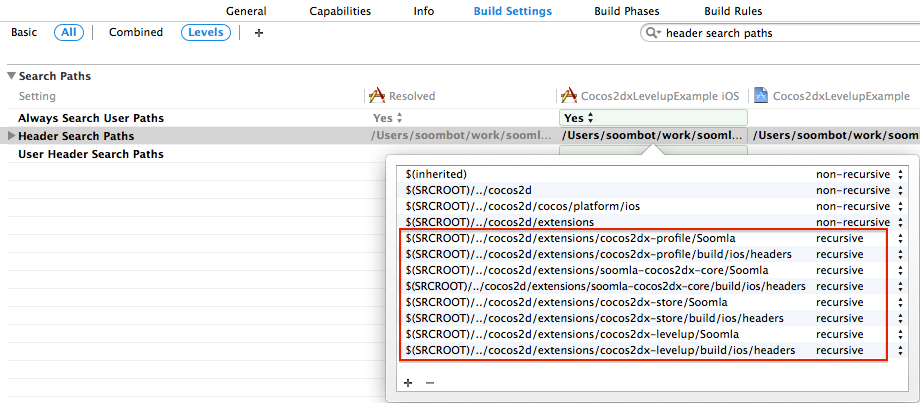
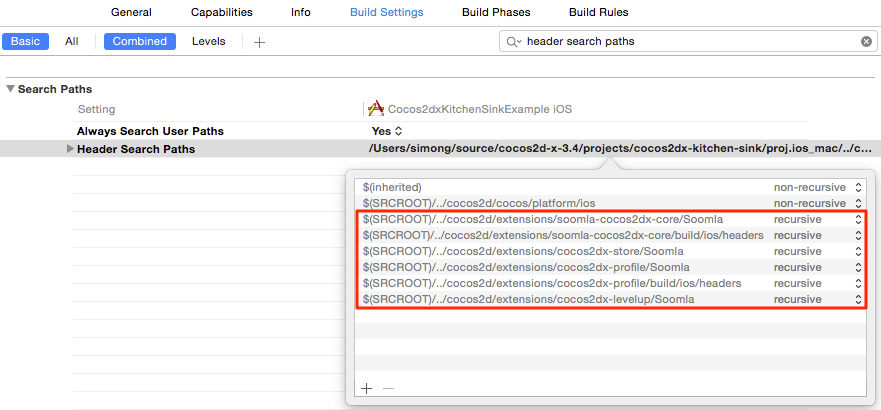
updating levelup getting started

Changed region(s): [[0.0, 0.1787, 1.0, 1.0], [0.0, 0.0, 1.0, 0.1489]]

diff --git a/src/documents/cocos2dx/levelup/Levelup_GettingStarted.html.md b/src/documents/cocos2dx/levelup/Levelup_GettingStarted.html.md
@@ -34,54 +34,45 @@ platform: 'cocos2dx'
     $ git clone git@github.com:soomla/cocos2dx-levelup.git extensions/cocos2dx-levelup
     ```
 
-3. We use a [fork](https://github.com/vedi/jansson) of the jansson library for JSON parsing. Clone our fork into the `external` directory at the root of your framework:
+3. We use a [fork](https://github.com/soomla/jansson) of the jansson library for JSON parsing. Clone our fork into the `external` directory at the root of your framework:
 
     ```
-    $ git clone git@github.com:vedi/jansson.git external/jansson
+    $ git clone git@github.com:soomla/jansson.git external/jansson
     ```
-
-4. Implement your `CCLevelUpEventHandler` class in order to be notified about LevelUp-related events.
-
-5. Initialize `CCServiceManager`, `CCStoreService`, `CCProfileService`, and `CCLevelUpService` with the class you just created, a `customSecret` and other params:
-
-  ```cpp
-  __Dictionary *commonParams = __Dictionary::create();
-    commonParams->setObject(__String::create("ExampleCustomSecret"), "customSecret");
-
-  __Dictionary *storeParams = __Dictionary::create();
-  storeParams->setObject(__String::create("ExamplePublicKey"), "androidPublicKey");
-
-  __Dictionary *profileParams = __Dictionary::create();
-
-    soomla::CCServiceManager::getInstance()->setCommonParams(commonParams);
-
-  soomla::CCStoreService::initShared(assets, storeParams);
-
-  soomla::CCProfileService::initShared(profileParams);
-
-  soomla::CCLevelUpService::initShared();
-
-  // initialWorld - should be created here and contain all worlds and levels of the game
-  // rewards - should contain a list of all rewards that are given through LevelUp
-  soomla::CCLevelUp::getInstance()->initialize(initialWorld, rewards);
-
-  ```
-  - *Custom Secret* is an encryption secret you provide that will be used to secure your data.
-
-  <div class="warning-box">Choose this secret wisely, you can't change it after you launch your game!
-  <br>Initialize `CCLevelUpService` ONLY ONCE when your application loads.</div>
-
-6. Make sure to include the `Cocos2dxLevelUp.h` header whenever you use any of the **cocos2dx-levelup** functions:
+4. Make sure to include the `Cocos2dxLevelUp.h` header whenever you use any of the **cocos2dx-levelup** functions:
 
     ```cpp
     #include "Cocos2dxLevelUp.h"
     ```
 
-7. Add an instance of your event handler to `CCLevelUpEventDispatcher` after `CCLevelUpService` initialization:
+5. Initialize `CCSoomla`, `CCSoomlaStore`, `CCSoomlaProfile`, and `CCSoomlaLevelUp` with their appropriate params:
 
-    ```cpp
-    soomla::CCLevelUpEventDispatcher::getInstance()->addEventHandler(handler);
-    ```
+  ```cpp
+  soomla::CCSoomla::initialize("customSecret");
+
+  YourImplementationAssets *assets = YourImplementationAssets::create();
+
+  __Dictionary *storeParams = __Dictionary::create();
+  soomla::CCSoomlaStore::initialize(assets, storeParams);
+
+  __Dictionary *profileParams = __Dictionary::create();
+  soomla::CCSoomlaProfile::initialize(profileParams);
+
+  // initialWorld - should be created here and contain all worlds and levels of the game
+	// rewards - should contain a list of all rewards that are given through LevelUp
+	soomla::CCSoomlaLevelUp::getInstance()->initialize(initialWorld, rewards);
+
+  ```
+  - *Custom Secret* is an encryption secret you provide that will be used to secure your data.
+
+  - *Store Params* see the [Store Getting Started](/cocos2dx/store/Store_GettingStarted) for more information about initializing Store
+
+  - *Profile Params* see the [Profile Getting Started](/cocos2dx/profile/Profile_GettingStarted) for more information about initializing Profile
+
+  <div class="warning-box">Choose this secret wisely, you can't change it after you launch your game!
+  <br>Initialize `CCSoomlaLevelUp` ONLY ONCE when your application loads.</div>
+
+6. You'll need to subscribe to levelup events to get notified about Level-Up related events. refer to the [Event Handling](/cocos2dx/levelup/Levelup_Events) section for more information.
 
 <div class="info-box">The next steps are different according to which platform you are using.</div>
 
@@ -89,7 +80,7 @@ platform: 'cocos2dx'
 
 In your XCode project, perform the following steps:
 
-1. Add `jansson` (**external/jansson/**) to your project (just add it as a source folder).
+1. Add `jansson` (**external/jansson/**) to your project (just add it as a source folder, make sure to check "create group").
 
 2. For each of the following XCode projects:
 
@@ -118,42 +109,17 @@ In your XCode project, perform the following steps:
  - `$(SRCROOT)/../cocos2d/extensions/soomla-cocos2dx-core/Soomla`
  - `$(SRCROOT)/../cocos2d/extensions/soomla-cocos2dx-core/build/ios/headers`
  - `$(SRCROOT)/../cocos2d/extensions/cocos2dx-store/Soomla`
- - `$(SRCROOT)/../cocos2d/extensions/cocos2dx-store/build/ios/headers`
  - `$(SRCROOT)/../cocos2d/extensions/cocos2dx-profile/Soomla`
  - `$(SRCROOT)/../cocos2d/extensions/cocos2dx-profile/build/ios/headers`
  - `$(SRCROOT)/../cocos2d/extensions/cocos2dx-levelup/Soomla`
- - `$(SRCROOT)/../cocos2d/extensions/cocos2dx-levelup/build/ios/headers`
 
  ![alt text](/img/tutorial_img/cocos2dx-levelup/headerSP.png "Header search paths")
 
-4. To register services on the native application (`AppController`):
+4. Make sure you have these 3 Frameworks linked to your XCode project: **Security**, **libsqlite3.0.dylib**, and **StoreKit**.
 
-  a. Import the following headers:
-    ```cpp
-    #import "ServiceManager.h"
-    #import "StoreService.h"
-    #import "ProfileService.h"
-    #import "LevelUpService.h"
-    ```
+5. Follow our [tutorial](/cocos2dx/store/Store_GettingStarted#apple-app-store) on how to connect the Store module to the App Store billing service.
 
-  b. Register the native `StoreService`, `ProfileService`, and `LevelUpService` by adding:
-    ```cpp
-    [[ServiceManager sharedServiceManager]
-      registerService:[StoreService sharedStoreService]];
-
-    [[ServiceManager sharedServiceManager]
-      registerService:[ProfileService sharedProfileService]];
-
-    [[ServiceManager sharedServiceManager]
-      registerService:[LevelUpService sharedLevelUpService]];
-    ```
-    at the beginning of the method `application: didFinishLaunchingWithOptions:` of `AppController`.
-
-5. Make sure you have these 3 Frameworks linked to your XCode project: **Security**, **libsqlite3.0.dylib**, and **StoreKit**.
-
-6. Follow our [tutorial](/cocos2dx/store/Store_GettingStarted#apple-app-store) on how to connect the Store module to the App Store billing service.
-
-7. See the following links in order to connect the Profile module to a social network provider:
+6. See the following links in order to connect the Profile module to a social network provider:
 
   - [Facebook for iOS](/cocos2dx/profile/Profile_GettingStarted#facebook-for-ios)
 
@@ -212,38 +178,7 @@ That's it! Now all you have to do is build your XCode project and run your game 
 
     - Cocos2dxAndroidLevelUp.jar
 
-
-3. In your game's main `Cocos2dxActivity`, call the following in the `onCreateView` method:
-
-  ``` java
-  public Cocos2dxGLSurfaceView onCreateView() {
-    // initialize services
-    final ServiceManager serviceManager = ServiceManager.getInstance();
-    serviceManager.setActivity(this);
-    serviceManager.setGlSurfaceView(glSurfaceView);
-    serviceManager.registerService(StoreService.getInstance());
-    serviceManager.registerService(ProfileService.getInstance());
-    serviceManager.registerService(LevelUpService.getInstance());
-  }
-  ```
-
-4. Override `onPause`, `onResume`:
-
-  ``` java
-    @Override
-    protected void onPause() {
-        super.onPause();
-        ServiceManager.getInstance().onPause();
-    }
-
-    @Override
-    protected void onResume() {
-        ServiceManager.getInstance().onResume();
-        super.onResume();
-    }
-  ```
-
-5. Update your `AndroidManifest.xml` to include permissions and the `SoomlaApp`:
+3. Update your `AndroidManifest.xml` to include permissions and the `SoomlaApp`:
 
     ``` xml
     <uses-permission android:name="android.permission.INTERNET"/>
@@ -258,13 +193,13 @@ That's it! Now all you have to do is build your XCode project and run your game 
     </application>
     ```
 
-6. See the following links in order to connect the Store module to a billing service:
+4. See the following links in order to connect the Store module to a billing service:
 
   - [Google Play](/cocos2dx/store/Store_GettingStarted#google-play)
 
   - [Amazon App Store](/cocos2dx/store/Store_GettingStarted#amazon)
 
-7. See the following links in order to connect the Profile module to a social network provider:
+5. See the following links in order to connect the Profile module to a social network provider:
 
   - [Facebook for Android](/cocos2dx/profile/Profile_GettingStarted#facebook-for-android)
 
@@ -314,7 +249,7 @@ That's it! Don't forget to run the **build_native.py** script so cocos2dx-levelu
 
 **NOTE:** Examples using virtual items are dependent on cocos2dx-store module, with proper `CCSoomlaStore` initialization and `CCStoreAssets` definitions. See the cocos2dx-store integration section for more details.
 
-* CCMission with CCReward (collect 5 stars to get 1 mega star)
+* `CCMission` with `CCReward` (collect 5 stars to get 1 mega star)
 
   ```cpp
   CCVirtualItemReward *virtualItemReward = CCVirtualItemReward::create(
@@ -339,16 +274,16 @@ That's it! Don't forget to run the **build_native.py** script so cocos2dx-levelu
   CCStoreInventory::sharedStoreInventory()->giveItem(starItemId->getCString(), 5, &error);
 
   // events posted:
-  // 1. onGoodBalanceChanged (Store events)
-  // 2. onMissionCompleted (LevelUp events)
-  // 3. onRewardGivenEvent (Core events)
+  // 1. EVENT_GOOD_BALANCE_CHANGED (Store events)
+  // 2. EVENT_MISSION_COMPLETED (LevelUp events)
+  // 3. EVENT_REWARD_GIVEN (Core events)
 
   // now the mission is complete, and reward given
   balanceMission->isCompleted(); // true
   virtualItemReward->isOwned(); // true
   ```
 
-* CCRecordGate with CCRangeScore
+* `CCRecordGate` with `CCRangeScore`
 
   ```cpp
   CCLevel *lvl1 = CCLevel::create(__String::create("lvl1_recordgate_rangescore"));
@@ -377,22 +312,22 @@ That's it! Don't forget to run the **build_native.py** script so cocos2dx-levelu
   world->addInnerWorld(lvl1);
   world->addInnerWorld(lvl2);
 
-  CCLevelUp::getInstance()->initialize(world);
+  CCSoomlaLevelUp::getInstance()->initialize(world);
 
   lvl1->start();
 
   // events posted:
-  // onLevelStarted (LevelUp events)
+  // EVENT_LEVEL_UP_INITIALIZED (LevelUp events)
 
   rangeScore->inc(100);
 
   lvl1->end(true);
 
   // events posted:
-  // onLevelEnded (LevelUp events)
-  // onWorldCompleted (lvl1) (LevelUp events)
-  // onGateOpened (LevelUp events)
-  // [onScoreRecordReached] - if record was broken (LevelUp events)
+  // EVENT_LEVEL_ENDED (LevelUp events)
+  // EVENT_MISSION_COMPLETED (lvl1) (LevelUp events)
+  // EVENT_GATE_OPENED (LevelUp events)
+  // [EVENT_SCORE_RECORD_REACHED] - if record was broken (LevelUp events)
 
   recordGate->isOpen(); // true
 
@@ -401,12 +336,12 @@ That's it! Don't forget to run the **build_native.py** script so cocos2dx-levelu
   lvl2->end(true);
 
   // events posted:
-  // onWorldCompleted (lvl2) (LevelUp events)
+  // EVENT_WORLD_COMPLETED (lvl2) (LevelUp events)
 
   lvl2->isCompleted(); // true
   ```
 
-* CCVirtualItemScore
+* `CCVirtualItemScore`
 
   ```cpp
   CCLevel *lvl1 = CCLevel::create(__String::create("lvl1_viscore"));
@@ -417,27 +352,27 @@ That's it! Don't forget to run the **build_native.py** script so cocos2dx-levelu
 
   world->addInnerWorld(lvl1);
 
-  CCLevelUp::getInstance()->initialize(world);
+  CCSoomlaLevelUp::getInstance()->initialize(world);
 
   lvl1->start();
   // events posted:
-  // onLevelStarted (LevelUp events)
+  // EVENT_LEVEL_UP_INITIALIZED (LevelUp events)
 
   virtualItemScore->inc(2.0);
   // events posted:
-  // onGoodBalanceChanged (Store events)
+  // EVENT_GOOD_BALANCE_CHANGED (Store events)
 
   lvl1->end(true);
   // events posted:
-  // onLevelEnded (LevelUp events)
-  // onWorldCompleted (lvl1) (LevelUp events)
-  // [onScoreRecordChanged] - if record was broken (LevelUp events)
+  // EVENT_LEVEL_ENDED (LevelUp events)
+  // EVENT_WORLD_COMPLETED (lvl1) (LevelUp events)
+  // [EVENT_SCORE_RECORD_REACHED] - if record was broken (LevelUp events)
 
   int currentBalance = CCStoreInventory::sharedStoreInventory()->getItemBalance(ITEM_ID_VI_SCORE, &error);
   // currentBalance == 2
   ```
 
-* CCChallenge (Multi-Mission)
+* `CCChallenge` (Multi-Mission)
 
   ```cpp
   __String *scoreId = __String::create("main_score");
@@ -476,22 +411,22 @@ That's it! Don't forget to run the **build_native.py** script so cocos2dx-levelu
   score->reset(true);
 
   // events:
-  // onMissionCompleted (mission1) (LevelUp events)
-  // [onScoreRecordReached] - if record is broken
+  // EVENT_WORLD_COMPLETED (mission1) (LevelUp events)
+  // [EVENT_SCORE_RECORD_REACHED] - if record is broken
 
   score->setTempScore(120.0);
   score->reset(true);
 
   // events:
-  // onMissionCompleted (mission2) (LevelUp events)
-  // onMissionCompleted (challenge) (LevelUp events)
-  // onRewardGivenEvent (badgeReward) (Core events)
+  // EVENT_MISSION_COMPLETED (mission2) (LevelUp events)
+  // EVENT_MISSION_COMPLETED (challenge) (LevelUp events)
+  // EVENT_REWARD_GIVEN (badgeReward) (Core events)
 
   challenge->isCompleted(); // true
   badgeReward->isOwned(); // true
   ```
 
-* CCGatesList
+* `CCGatesList`
 > Note that currently a `GatesList` gate is automatically opened when sub-gates fulfill the `GatesList` requirement.
 
   ```cpp
@@ -535,7 +470,7 @@ That's it! Don't forget to run the **build_native.py** script so cocos2dx-levelu
     gates
   );
 
-  CCLevelUp::getInstance()->initialize(world);
+  CCSoomlaLevelUp::getInstance()->initialize(world);
 
   score1->setTempScore(desiredRecord1->getValue());
   score1->reset(true);

diff --git a/src/documents/cocos2dx/profile/Profile_GettingStarted.html.md b/src/documents/cocos2dx/profile/Profile_GettingStarted.html.md
@@ -39,7 +39,7 @@ platform: 'cocos2dx'
   #include "Cocos2dxProfile.h"
   ```
 
-5. Initialize `CCSoomla` a `customSecret` and `CCSoomlaProfile` its params. **Custom Secret** is an encryption secret you provide that will be used to secure your data. Choose this secret wisely, you can't change it after you launch your game!
+5. Initialize `CCSoomla` with a `customSecret` and `CCSoomlaProfile` with its params. **Custom Secret** is an encryption secret you provide that will be used to secure your data. Choose this secret wisely, you can't change it after you launch your game!
 
   ``` cpp
   soomla::CCSoomla::initialize("customSecret");
